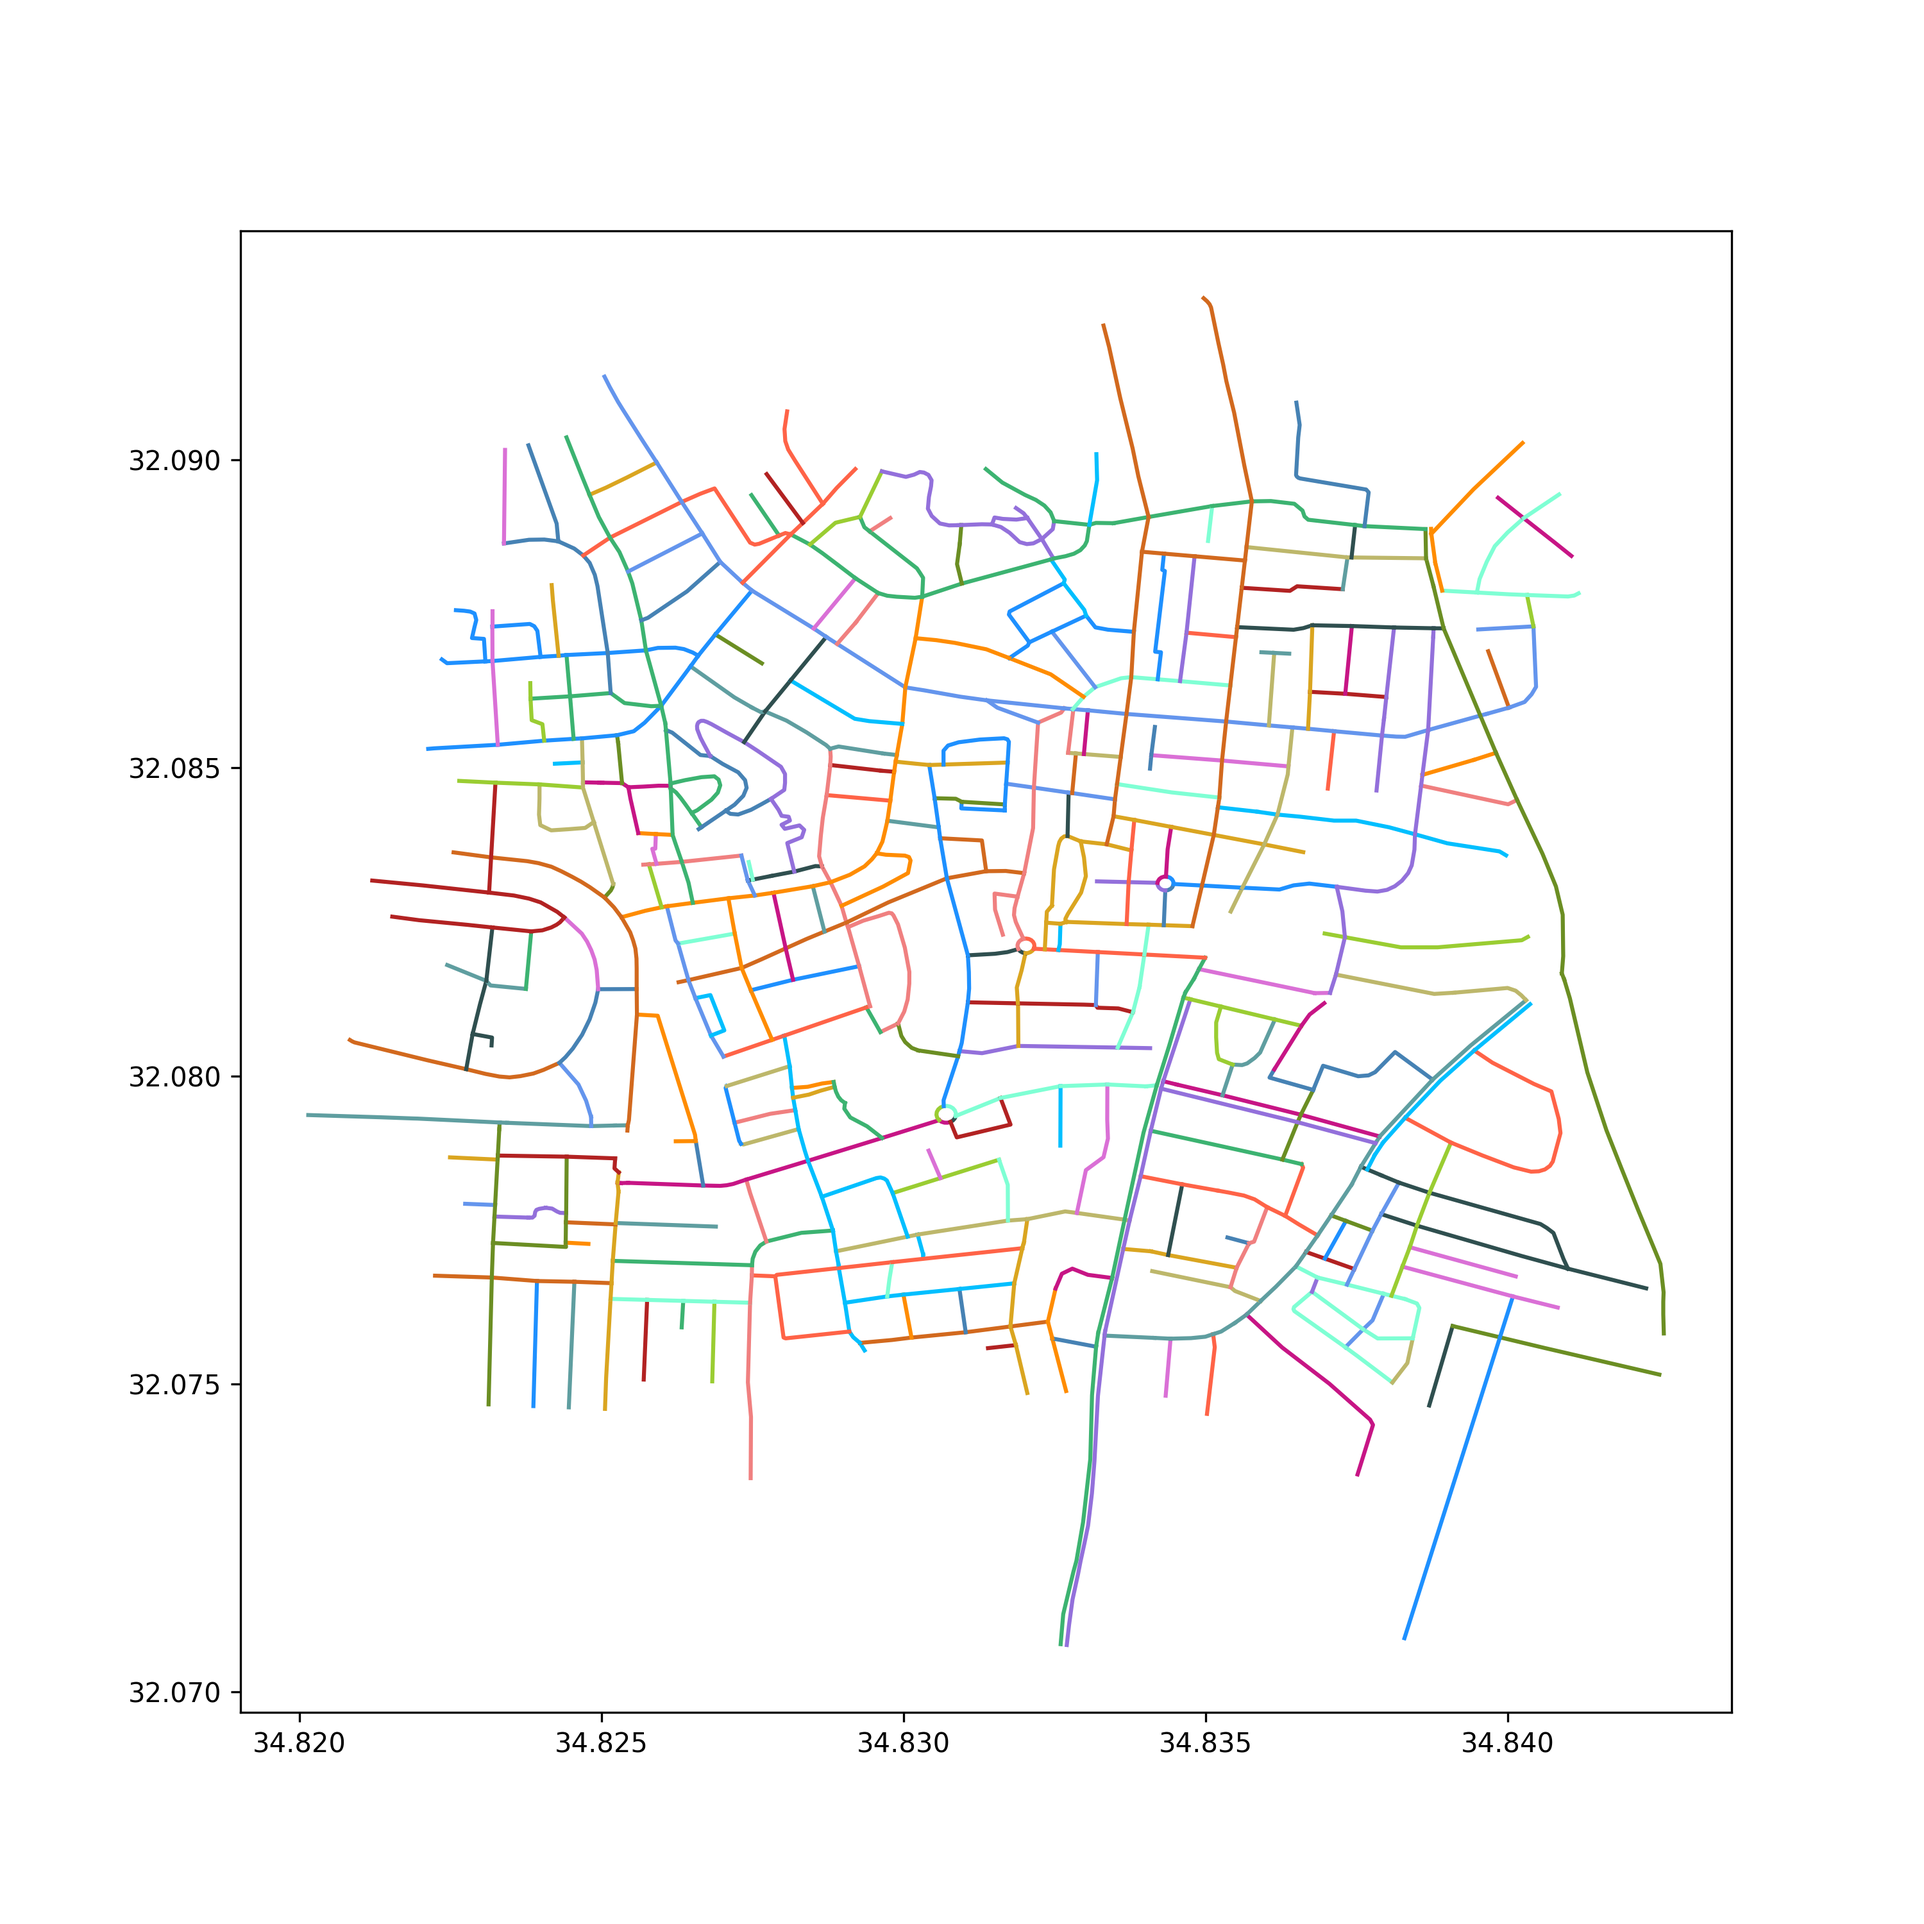
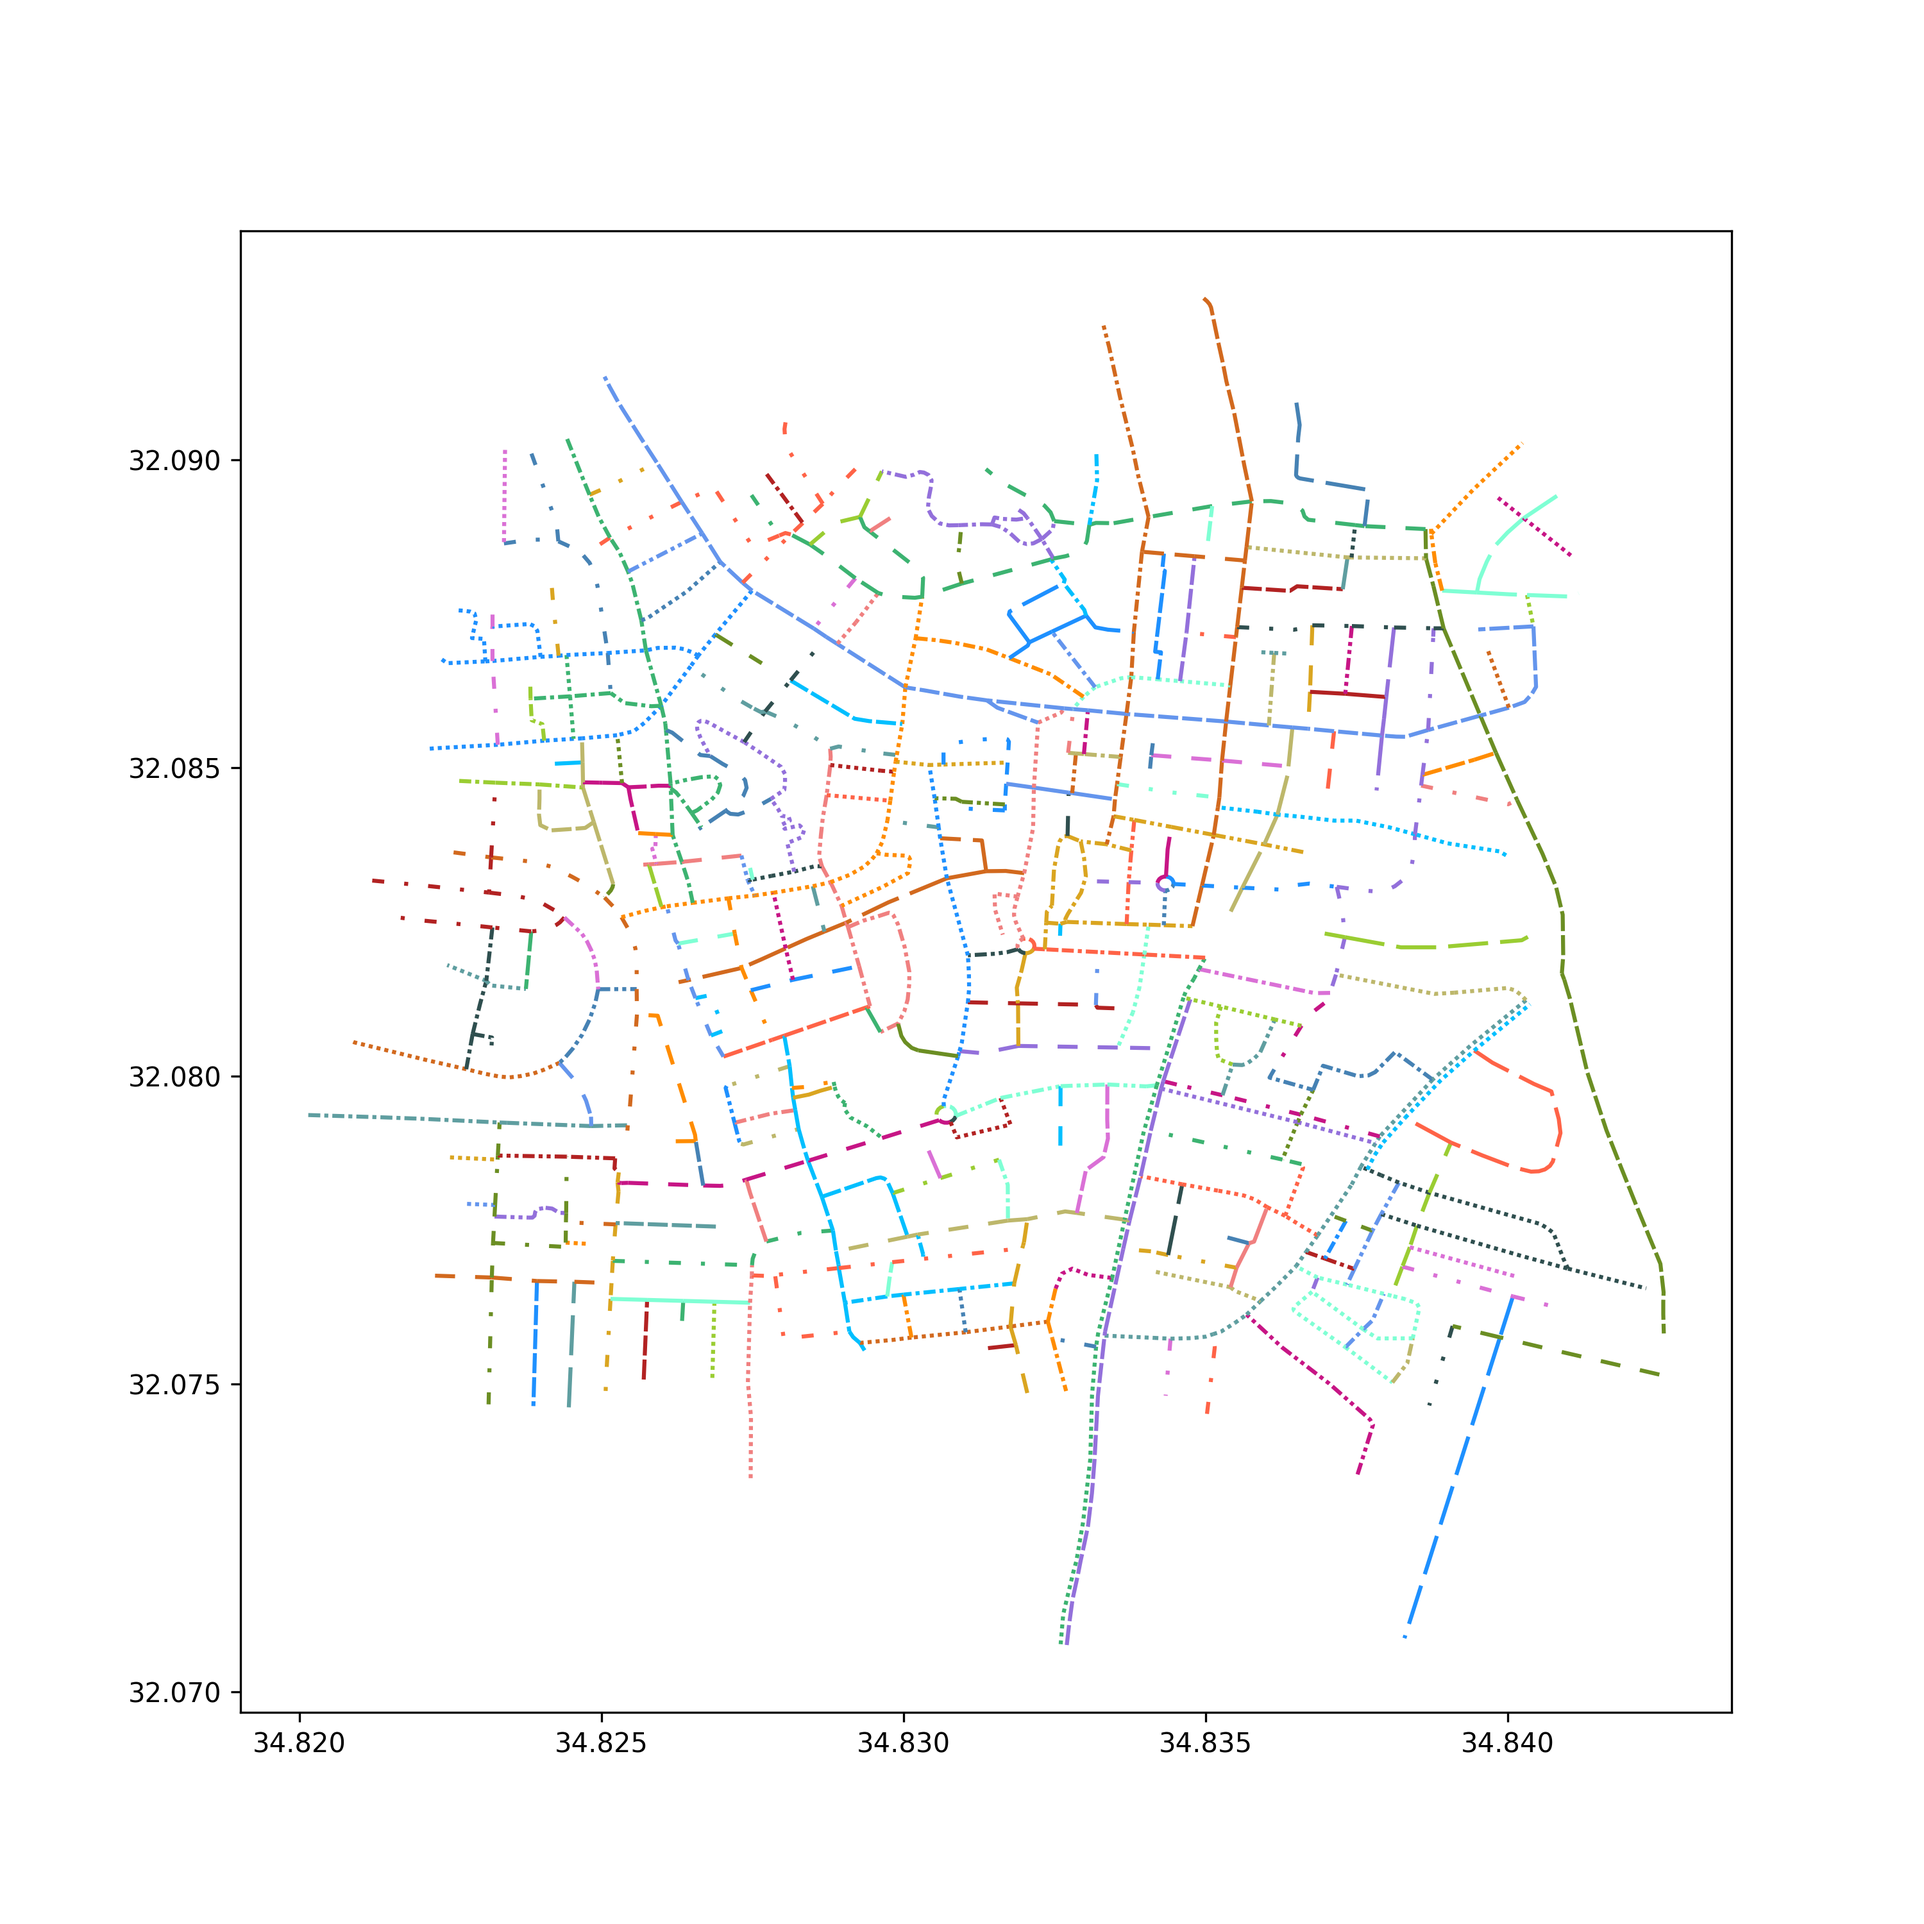
Dashes implemented

diff --git a/main.py b/main.py
@@ -3,7 +3,7 @@ import matplotlib.pyplot as plt
 import random
 import math
 
-from colors import COLORS
+from styles import COLORS, STYLES
 from itertools import cycle
 
 OUTPUT_SIZE = 3000
@@ -13,12 +13,15 @@ MAX_ANGLE = 45
 INPUT_PATH = 'sample/roads.shp'
 OUTPUT_PATH = 'output/solution.png'
 
+VARIED_STYLES = True
+
 color_iter = cycle(COLORS)
+style_iter = cycle(STYLES)
     
 class Street:
     def __init__(self, shape):
         self.shape = shape
-        self.color = None
+        self.style = None
 
 def read_shp(file_path):
     shp = shapefile.Reader(file_path)
@@ -32,27 +35,29 @@ def plot(streets):
         shape = street.shape
         x = [point[0] for point in shape.points]
         y = [point[1] for point in shape.points]
-        ax.plot(x, y, color=street.color)
+        ax.plot(x, y, color=street.style[0], dashes=street.style[1])
     print("SAVED FILE")
     plt.savefig(OUTPUT_PATH, dpi=OUTPUT_RES)
 
-def pick_new_color():
-    return next(color_iter)
+def pick_new_style():
+    if VARIED_STYLES:
+        return (next(color_iter), next(style_iter))
+    return (next(color_iter), (None, None))
 
 def get_vector_from_points(points):
     return (points[-1][0] - points[-2][0], points[-1][1] - points[-2][1])
 
 
-def dfs_color(street, all_streets, current_color):
-    if street.color:
+def dfs_color(street, all_streets, current_style):
+    if street.style:
         return
     
-    street.color = current_color
+    street.style = current_style
     neighbors = check_neighbors(street, all_streets)
     if not neighbors:
         return
     if len(neighbors) == 1:
-        dfs_color(neighbors[0], all_streets, current_color)
+        dfs_color(neighbors[0], all_streets, current_style)
     else:
         target_points = street.shape.points
         target_vector = get_vector_from_points(target_points)
@@ -64,7 +69,7 @@ def dfs_color(street, all_streets, current_color):
             angle = angle_between(target_vector, neighbor_vector)
 
             if angle <= MAX_ANGLE:
-                dfs_color(neighbor, all_streets, current_color)
+                dfs_color(neighbor, all_streets, current_style)
             
 def check_neighbors(target_street, all_streets):
     neighbors = []
@@ -98,17 +103,16 @@ def angle_between(v1, v2):
     angle = math.degrees(math.acos(max(min(cos_angle, 1), -1)))
     if angle>90+MAX_ANGLE:
         angle = abs(angle-180)
-    print(angle)
+    #print(angle)
     return angle
 
 def main():
-    #pick_new_color()
     all_streets = read_shp(INPUT_PATH)
 
     for street in all_streets:
-        if not street.color:
-            current_color = pick_new_color()
-            dfs_color(street, all_streets, current_color)
+        if not street.style:
+            current_style = pick_new_style()
+            dfs_color(street, all_streets, current_style)
 
     plot(all_streets)
 

diff --git a/styles.py b/styles.py
@@ -1,0 +1,38 @@
+COLORS = [
+    'aquamarine',
+    'mediumseagreen',
+    'firebrick',
+    'goldenrod',
+    'deepskyblue',
+    'orchid',
+    'darkorange',
+    'steelblue',
+    'darkkhaki',
+    'cadetblue',
+    'chocolate',
+    'dodgerblue',
+    'olivedrab', 
+    'mediumpurple',
+    'tomato',
+    'cornflowerblue',
+    'darkslategray',
+    'mediumvioletred',
+    'lightcoral', 
+    'yellowgreen'
+]
+
+STYLES = [
+    #(1, 10),     # loosely dotted
+    (1, 1),      # dotted
+    (1, 1),      # densely dotted (this is same as above, differentiate if needed)
+    (10, 3),     # long dash with offset
+    #(5, 10),     # loosely dashed
+    (5, 5),      # dashed
+    (5, 1),      # densely dashed
+    #(3, 10, 1, 10),      # loosely dashdotted
+    (3, 5, 1, 5),        # dashdotted
+    (3, 1, 1, 1),        # densely dashdotted
+    (3, 5, 1, 5, 1, 5),  # dashdotdotted
+    #(3, 10, 1, 10, 1, 10),   # loosely dashdotdotted
+    (3, 1, 1, 1, 1, 1)   # densely dashdotdotted
+]
